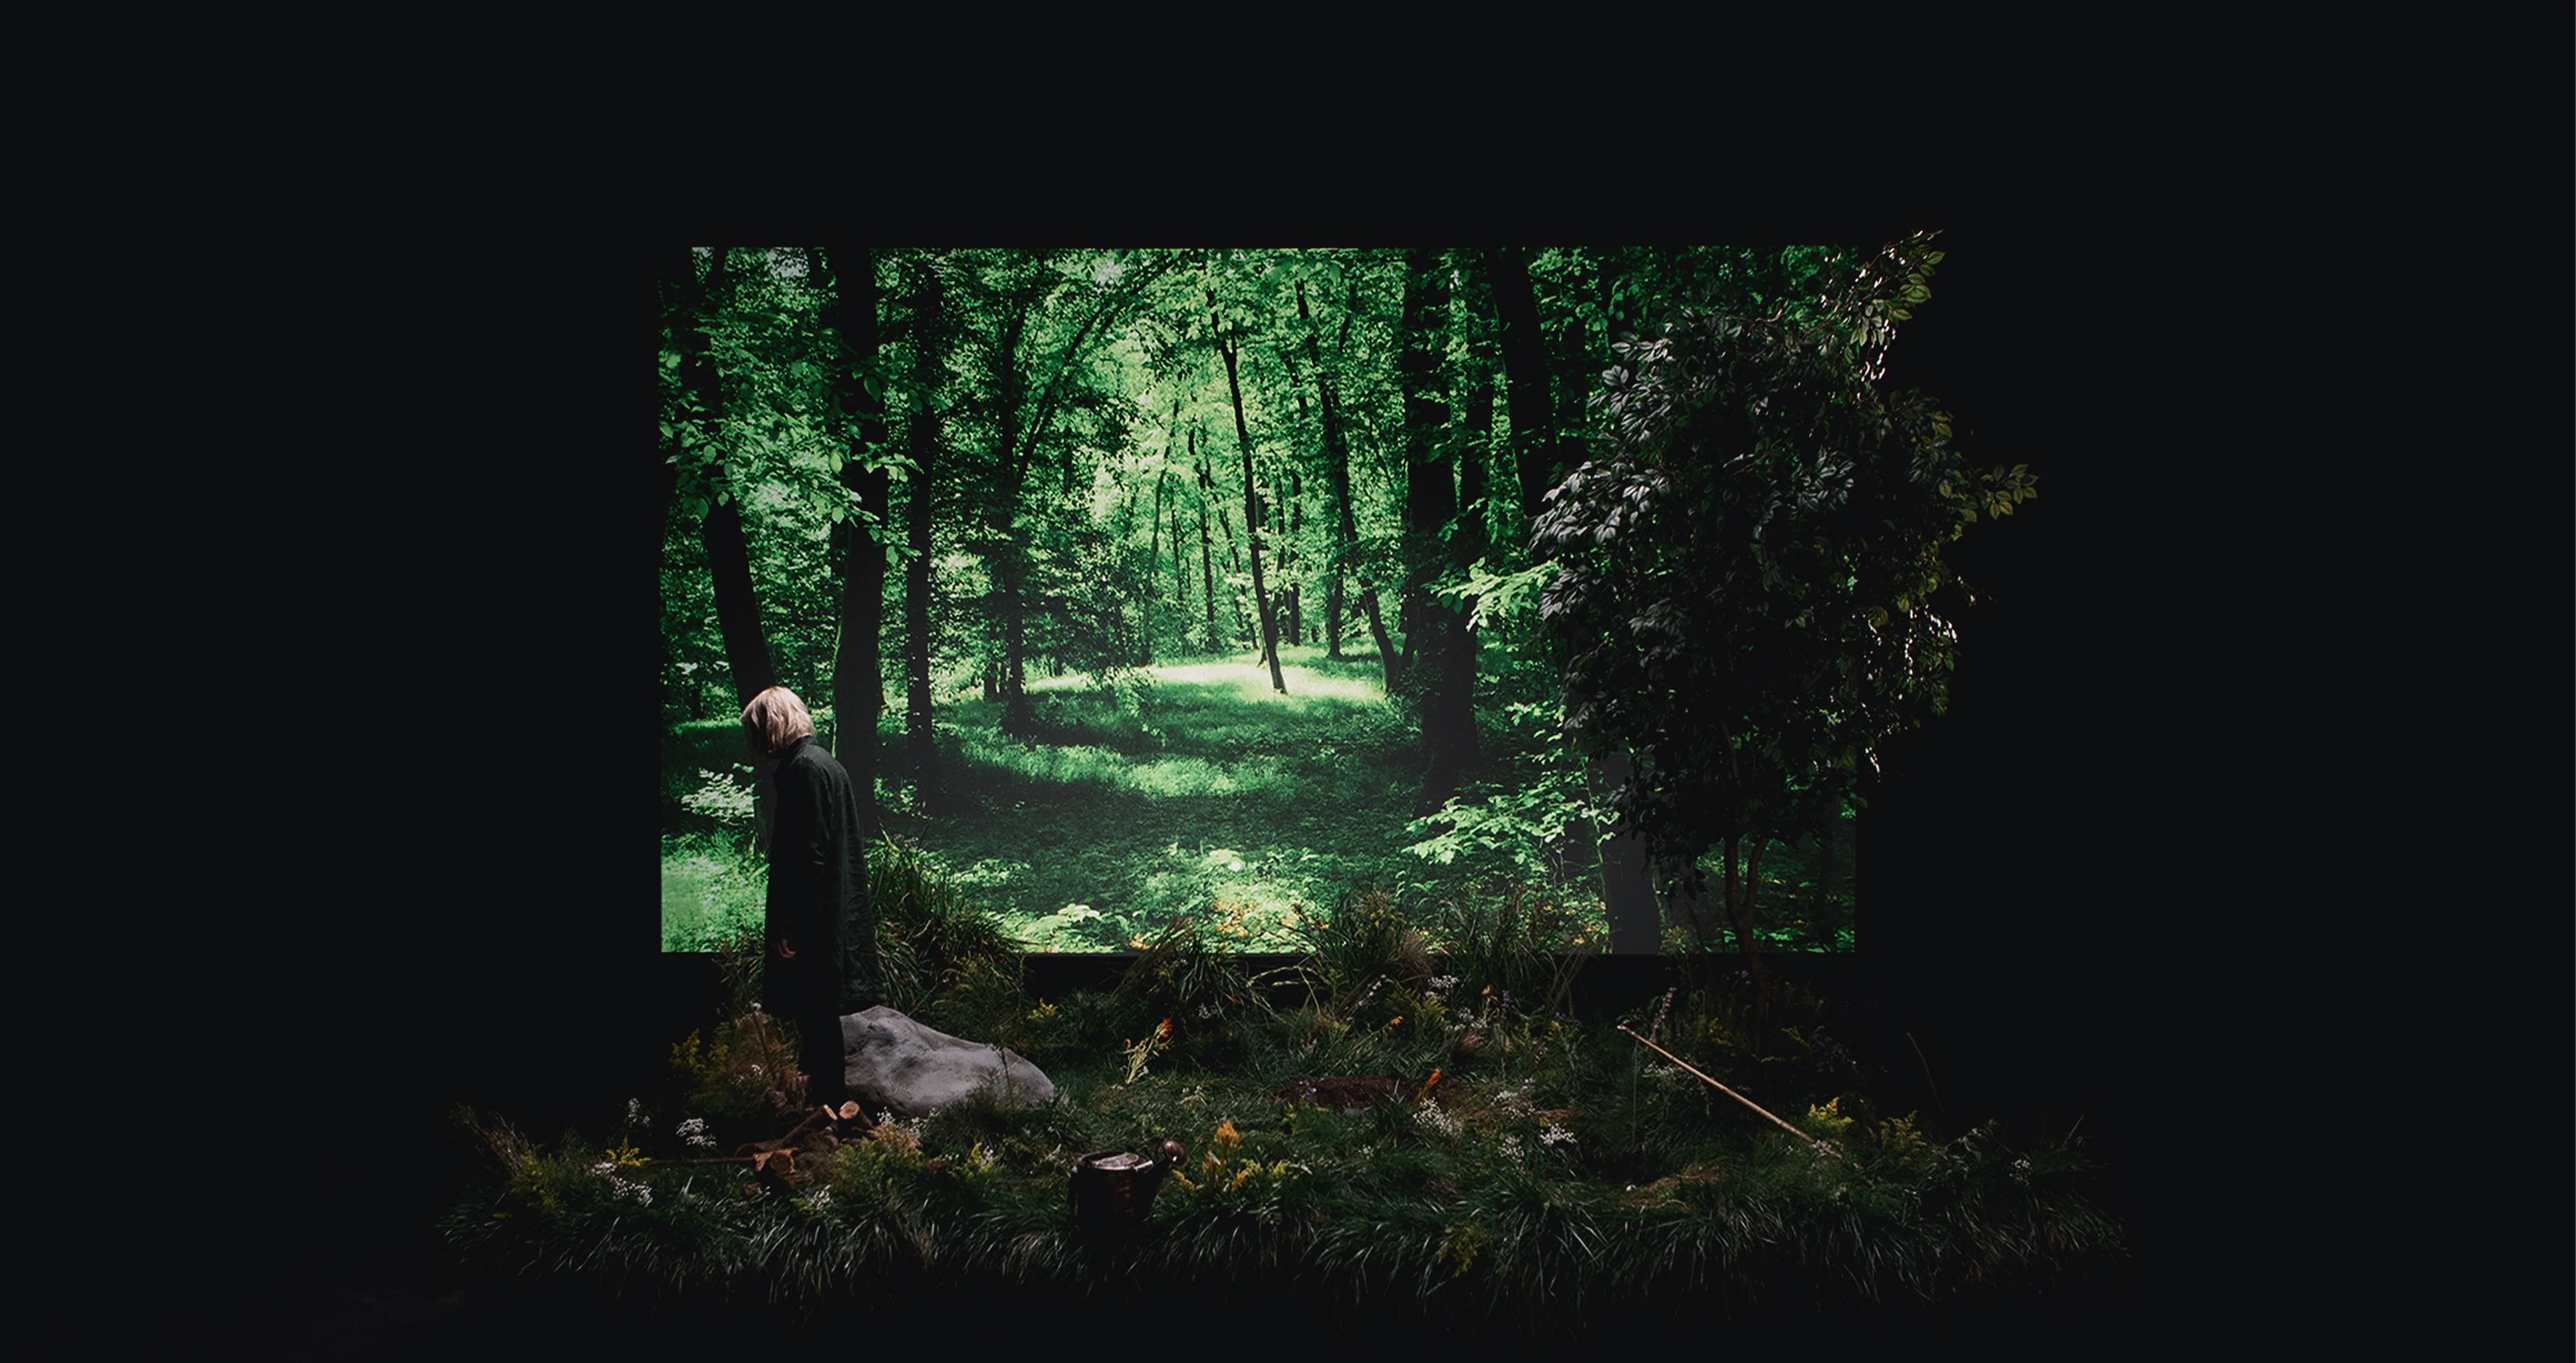
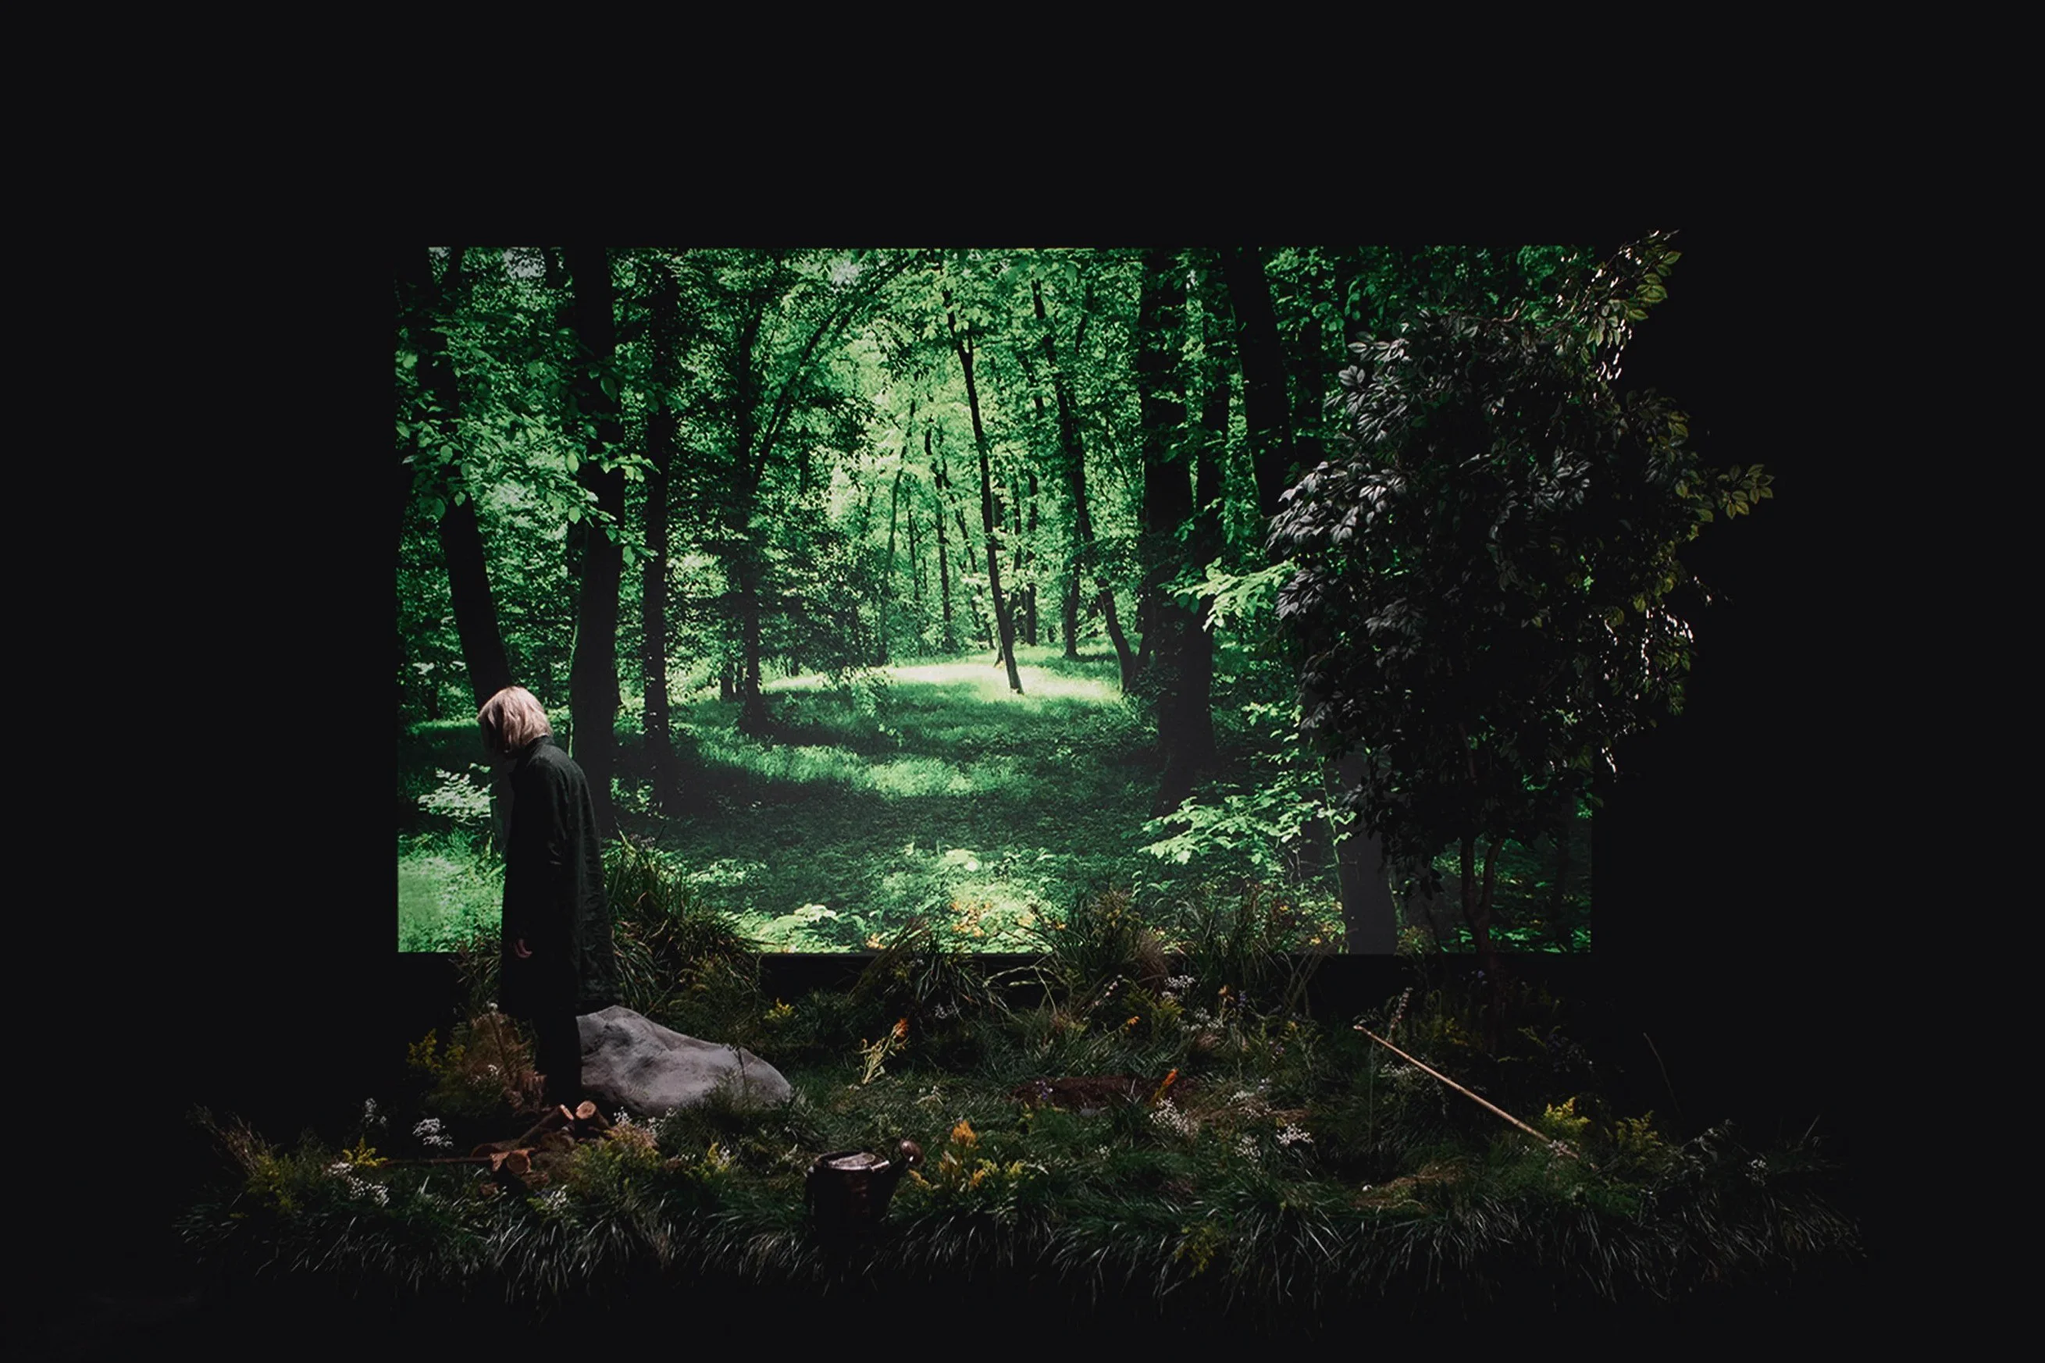
fix: footer diorama image crop w new py

Changed region(s): [[0.0928, 0.1546, 0.866, 0.9278], [0.7423, 0.5567, 0.7732, 0.5876]]

diff --git a/app/components/FooterSection.vue b/app/components/FooterSection.vue
@@ -1,6 +1,6 @@
 <template>
   <div class="w-full px-page py-12 flex flex-col">
-    <div class="w-full flex justify-center py-24">
+    <div class="w-full flex justify-center">
       <img
         class="w-full object-contain"
         src="/img/render.webp"
